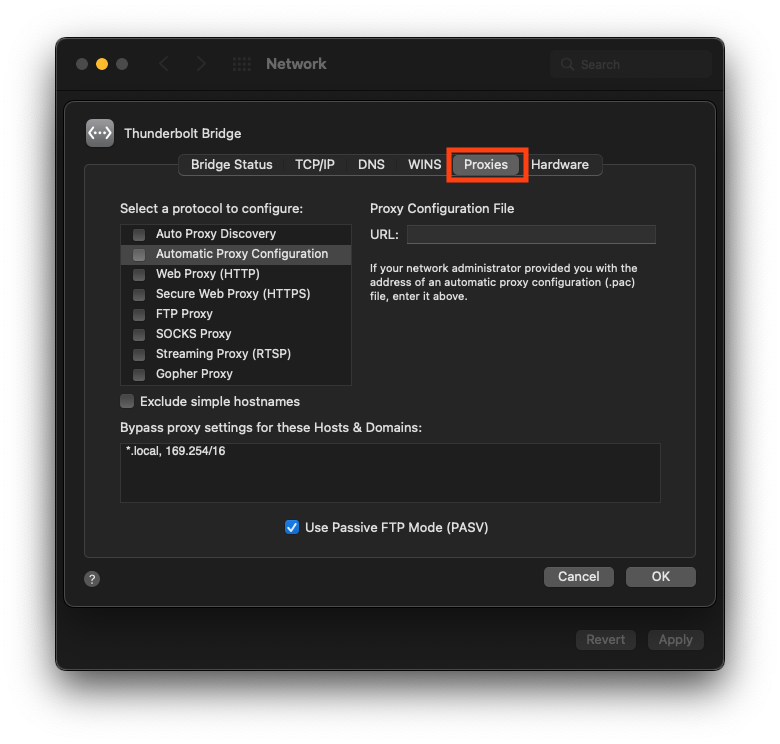
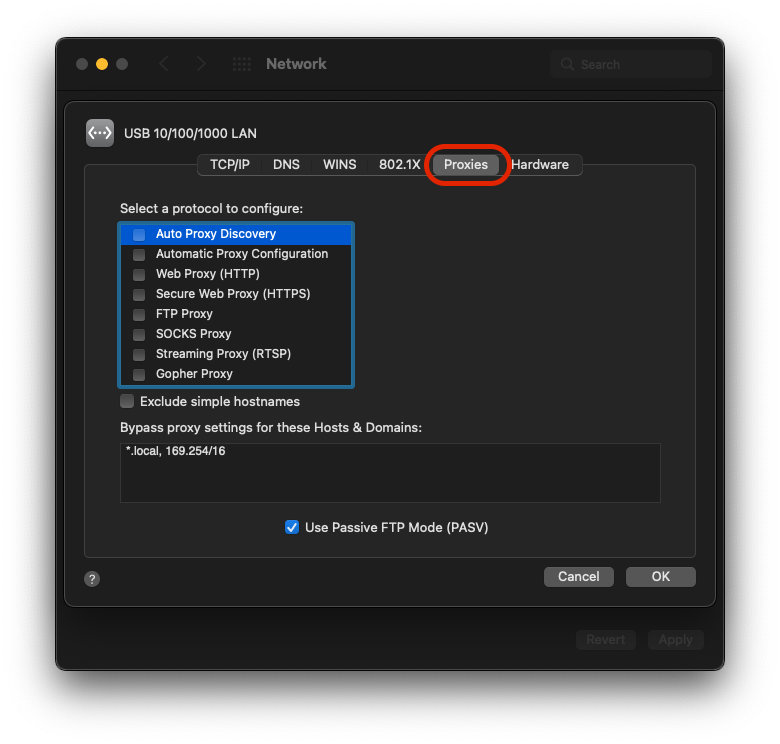
fix mac system-wide tor proxy instructions

diff --git a/site/source/user-manual/connecting/connecting-tor/tor-os/tor-mac.rst b/site/source/user-manual/connecting/connecting-tor/tor-os/tor-mac.rst
@@ -56,12 +56,6 @@ This will start Tor and ensure that it is always running, even after a restart. 
 Enable Tor System-wide
 ----------------------
 
-#. Now enable apache service:
-
-    .. code-block::
-
-        sudo launchctl load -w /System/Library/LaunchDaemons/org.apache.httpd.plist
-
 #. Enable proxy autoconfig file (This will download the Start9 standard proxy config file. You can use your own if you prefer):
 
     .. code-block::
@@ -92,7 +86,7 @@ Enable Tor System-wide
         :width: 80%
         :alt: Select Proxys
 
-#. Select "Automatic Proxy Configuration", add this URL: http://localhost/proxy.pac then click "OK"
+#. Select "Automatic Proxy Configuration", add this URL: **file:////Library/WebServer/Documents/proxy.pac** then click "OK"
 
     .. figure:: /_static/images/tor/entertorproxyURL.png
         :width: 80%
